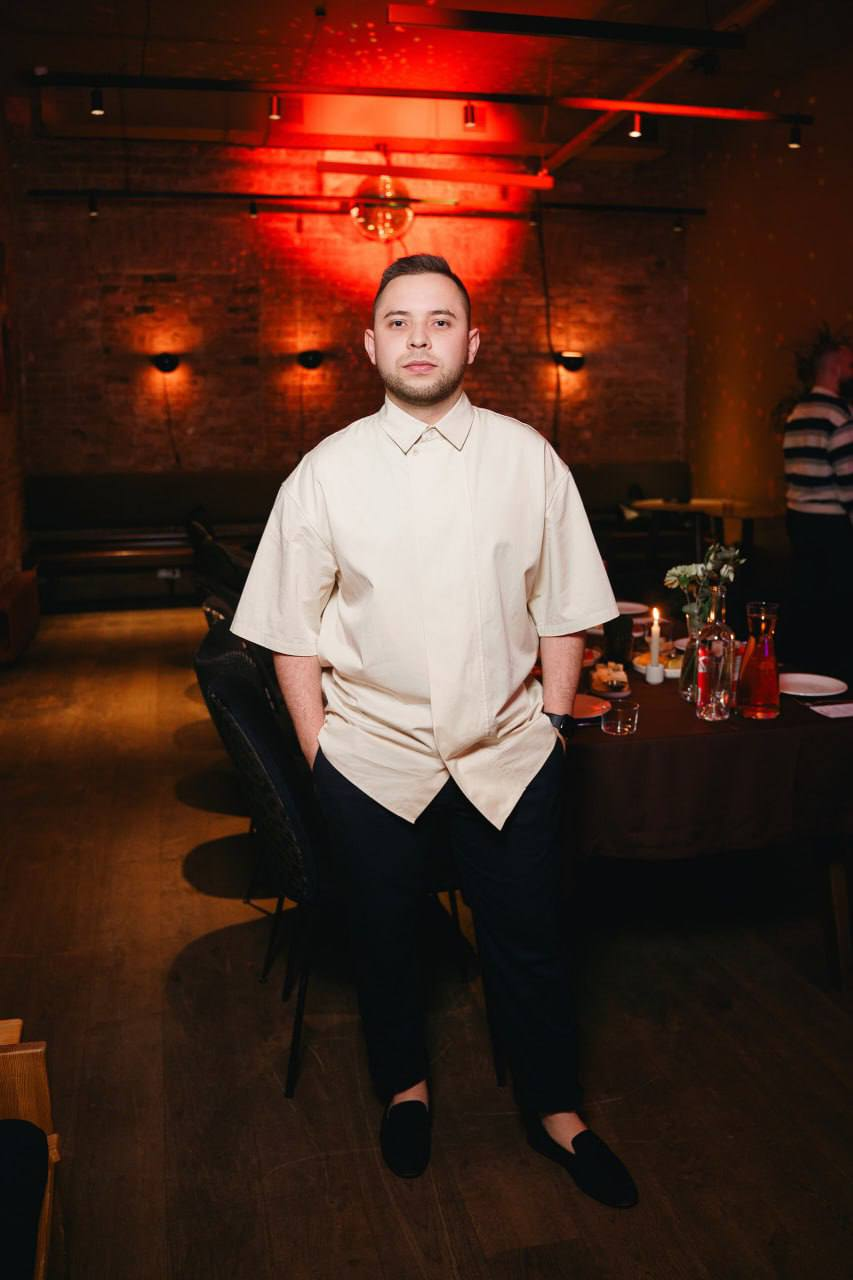
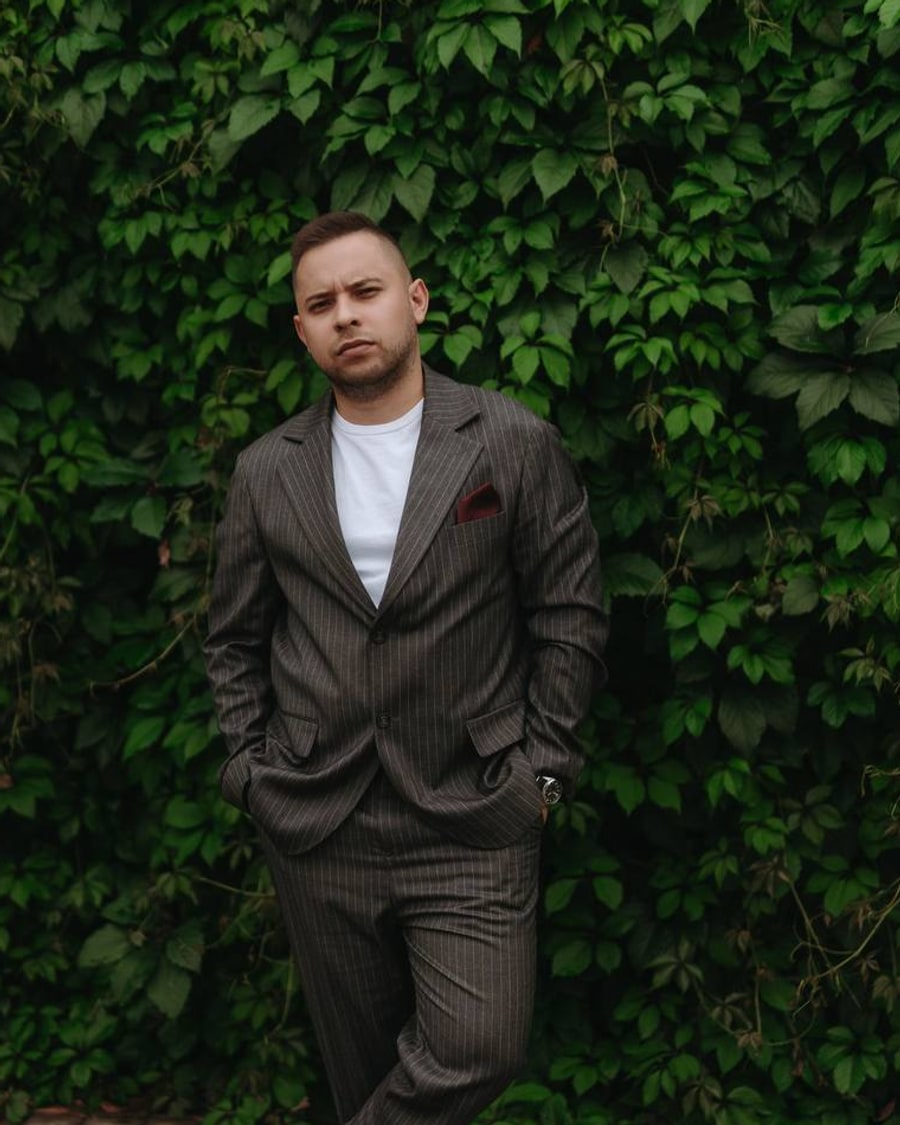
Update brief backdrop and contacts portrait

diff --git a/components/BriefSequenceBackdrop.js b/components/BriefSequenceBackdrop.js
@@ -1,13 +1,15 @@
 import { useEffect, useRef, useState } from 'react'
 
 const SEQUENCES = [
-  { label: 'home', base: '/home-sequence', width: 720, height: 720, x: '8%', y: '12%', size: 'clamp(150px, 17vw, 270px)' },
-  { label: 'production', base: '/production-sequence', width: 958, height: 540, x: '72%', y: '8%', size: 'clamp(260px, 27vw, 440px)' },
-  { label: 'viral', base: '/viral-sequence', width: 900, height: 674, x: '42%', y: '10%', size: 'clamp(210px, 23vw, 360px)' },
-  { label: 'scripts', base: '/scripts-sequence', width: 900, height: 507, x: '6%', y: '68%', size: 'clamp(250px, 28vw, 430px)' },
-  { label: 'concepts', base: '/concepts-sequence', width: 900, height: 900, x: '72%', y: '58%', size: 'clamp(170px, 20vw, 320px)' },
-  { label: 'events', base: '/events-sequence', width: 900, height: 507, x: '38%', y: '72%', size: 'clamp(250px, 28vw, 430px)' },
+  { label: 'home', base: '/home-sequence', width: 720, height: 720, x: '7%', y: '9%', mobileX: '-10%', mobileY: '6%', size: 'clamp(170px, 18vw, 300px)', mobileSize: '210px', rotate: '-9deg', opacity: 0.78 },
+  { label: 'production', base: '/production-sequence', width: 958, height: 540, x: '69%', y: '5%', mobileX: '48%', mobileY: '13%', size: 'clamp(320px, 31vw, 520px)', mobileSize: '300px', rotate: '6deg', opacity: 0.86 },
+  { label: 'viral', base: '/viral-sequence', width: 900, height: 674, x: '38%', y: '17%', mobileX: '18%', mobileY: '34%', size: 'clamp(250px, 25vw, 430px)', mobileSize: '250px', rotate: '-3deg', opacity: 0.84 },
+  { label: 'scripts', base: '/scripts-sequence', width: 900, height: 507, x: '2%', y: '63%', mobileX: '-18%', mobileY: '62%', size: 'clamp(310px, 30vw, 520px)', mobileSize: '290px', rotate: '5deg', opacity: 0.82 },
+  { label: 'concepts', base: '/concepts-sequence', width: 900, height: 900, x: '76%', y: '55%', mobileX: '58%', mobileY: '55%', size: 'clamp(210px, 22vw, 360px)', mobileSize: '230px', rotate: '-8deg', opacity: 0.8 },
+  { label: 'events', base: '/events-sequence', width: 900, height: 507, x: '35%', y: '78%', mobileX: '22%', mobileY: '82%', size: 'clamp(320px, 32vw, 540px)', mobileSize: '300px', rotate: '4deg', opacity: 0.82 },
 ]
+
+const TOTAL_FRAMES = 151
 
 function drawContain(ctx, img, width, height) {
   ctx.clearRect(0, 0, width, height)
@@ -27,7 +29,9 @@ function SequenceTile({ sequence }) {
   const directionRef = useRef(1)
   const rafRef = useRef(null)
   const lastTickRef = useRef(0)
+  const touchTimerRef = useRef(null)
   const [ready, setReady] = useState(false)
+  const [playing, setPlaying] = useState(false)
 
   useEffect(() => {
     const img = new window.Image()
@@ -38,13 +42,16 @@ function SequenceTile({ sequence }) {
       const canvas = canvasRef.current
       if (canvas) drawContain(canvas.getContext('2d'), img, canvas.width, canvas.height)
     }
-    return () => cancelAnimationFrame(rafRef.current)
+    return () => {
+      cancelAnimationFrame(rafRef.current)
+      window.clearTimeout(touchTimerRef.current)
+    }
   }, [sequence.base])
 
   const loadFrames = () => {
     if (loadedRef.current) return
     loadedRef.current = true
-    for (let i = 2; i <= 151; i++) {
+    for (let i = 2; i <= TOTAL_FRAMES; i++) {
       const img = new window.Image()
       const idx = i - 1
       img.src = `${sequence.base}/${String(i).padStart(3, '0')}.webp`
@@ -58,7 +65,7 @@ function SequenceTile({ sequence }) {
 
     if (time - lastTickRef.current > 38) {
       lastTickRef.current = time
-      const maxFrame = 150
+      const maxFrame = TOTAL_FRAMES - 1
       const next = frameRef.current + directionRef.current
       if (next >= maxFrame || next <= 0) directionRef.current *= -1
       frameRef.current = Math.max(0, Math.min(maxFrame, next))
@@ -81,6 +88,7 @@ function SequenceTile({ sequence }) {
 
   const start = () => {
     activeRef.current = true
+    setPlaying(true)
     loadFrames()
     cancelAnimationFrame(rafRef.current)
     rafRef.current = requestAnimationFrame(animate)
@@ -88,21 +96,36 @@ function SequenceTile({ sequence }) {
 
   const stop = () => {
     activeRef.current = false
+    setPlaying(false)
+  }
+
+  const playOnTap = () => {
+    start()
+    window.clearTimeout(touchTimerRef.current)
+    touchTimerRef.current = window.setTimeout(stop, 2800)
   }
 
   return (
     <div
-      className="absolute hidden md:block"
-      onMouseEnter={start}
-      onMouseLeave={stop}
+      className={`brief-sequence-tile ${playing ? 'is-playing' : ''}`}
+      onPointerEnter={(event) => {
+        if (event.pointerType === 'mouse') start()
+      }}
+      onPointerLeave={(event) => {
+        if (event.pointerType === 'mouse') stop()
+      }}
+      onPointerDown={(event) => {
+        if (event.pointerType !== 'mouse') playOnTap()
+      }}
       style={{
-        left: sequence.x,
-        top: sequence.y,
-        width: sequence.size,
-        pointerEvents: 'auto',
-        opacity: ready ? 0.82 : 0,
-        transition: 'opacity 0.4s ease',
-        filter: 'brightness(1.18) saturate(1.15) drop-shadow(0 0 34px rgba(239,68,68,0.34))',
+        '--desktop-x': sequence.x,
+        '--desktop-y': sequence.y,
+        '--mobile-x': sequence.mobileX,
+        '--mobile-y': sequence.mobileY,
+        '--tile-width': sequence.size,
+        '--mobile-width': sequence.mobileSize,
+        '--tile-rotate': sequence.rotate,
+        '--tile-opacity': ready ? sequence.opacity : 0,
       }}
     >
       <canvas ref={canvasRef} width={sequence.width} height={sequence.height} className="w-full h-auto" />
@@ -112,10 +135,41 @@ function SequenceTile({ sequence }) {
 
 export default function BriefSequenceBackdrop() {
   return (
-    <div className="pointer-events-none fixed inset-0 z-0 overflow-hidden" aria-hidden="true">
-      <div className="absolute inset-0" style={{ background: 'radial-gradient(circle at 50% 40%, rgba(239,68,68,0.12), transparent 46%)' }} />
+    <div className="pointer-events-none fixed inset-0 z-0 overflow-hidden">
+      <div className="absolute inset-0 pointer-events-none" style={{ background: 'radial-gradient(circle at 52% 36%, rgba(239,68,68,0.13), transparent 42%)' }} />
       {SEQUENCES.map(sequence => <SequenceTile key={sequence.label} sequence={sequence} />)}
-      <div className="absolute inset-0" style={{ background: 'linear-gradient(90deg,rgba(10,10,20,0.9),rgba(10,10,20,0.58) 42%,rgba(10,10,20,0.86))' }} />
+      <div className="absolute inset-0 pointer-events-none" style={{ background: 'linear-gradient(90deg,rgba(10,10,20,0.88),rgba(10,10,20,0.48) 44%,rgba(10,10,20,0.84))' }} />
+      <style jsx>{`
+        .brief-sequence-tile {
+          position: absolute;
+          left: var(--mobile-x);
+          top: var(--mobile-y);
+          width: var(--mobile-width);
+          pointer-events: auto;
+          cursor: pointer;
+          opacity: calc(var(--tile-opacity) * 0.72);
+          transform: rotate(var(--tile-rotate)) scale(1);
+          transform-origin: center;
+          transition: opacity 0.35s ease, filter 0.35s ease, transform 0.35s ease;
+          filter: brightness(1.12) saturate(1.22) drop-shadow(0 0 28px rgba(239, 68, 68, 0.32));
+          -webkit-tap-highlight-color: transparent;
+        }
+
+        .brief-sequence-tile.is-playing {
+          opacity: 0.98;
+          transform: rotate(var(--tile-rotate)) scale(1.045);
+          filter: brightness(1.32) saturate(1.42) drop-shadow(0 0 42px rgba(239, 68, 68, 0.48));
+        }
+
+        @media (min-width: 768px) {
+          .brief-sequence-tile {
+            left: var(--desktop-x);
+            top: var(--desktop-y);
+            width: var(--tile-width);
+            opacity: var(--tile-opacity);
+          }
+        }
+      `}</style>
     </div>
   )
 }
